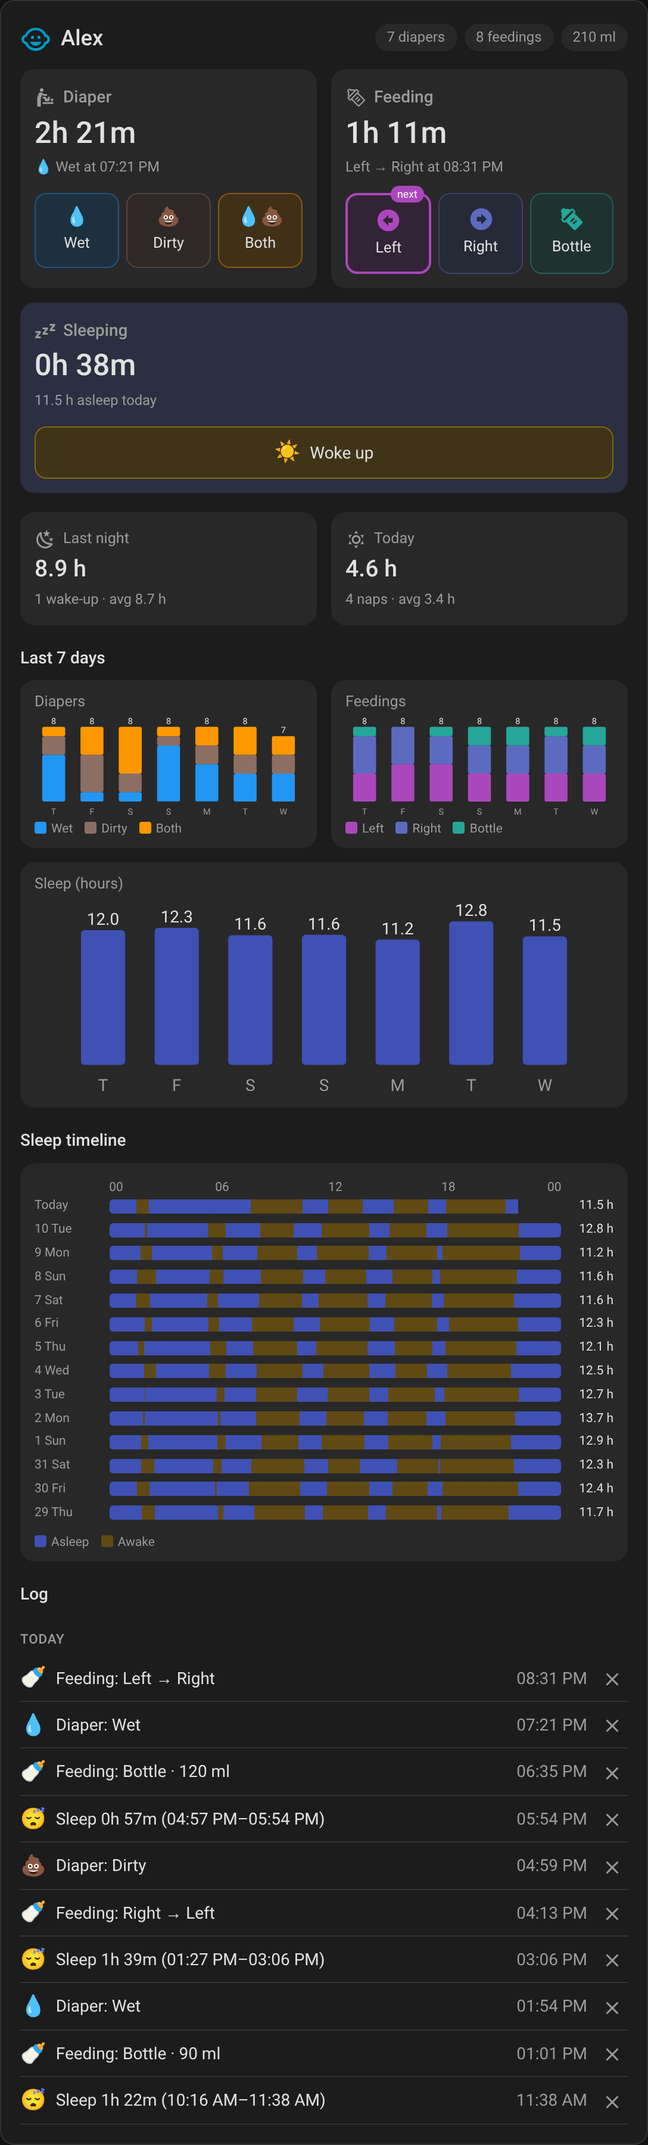
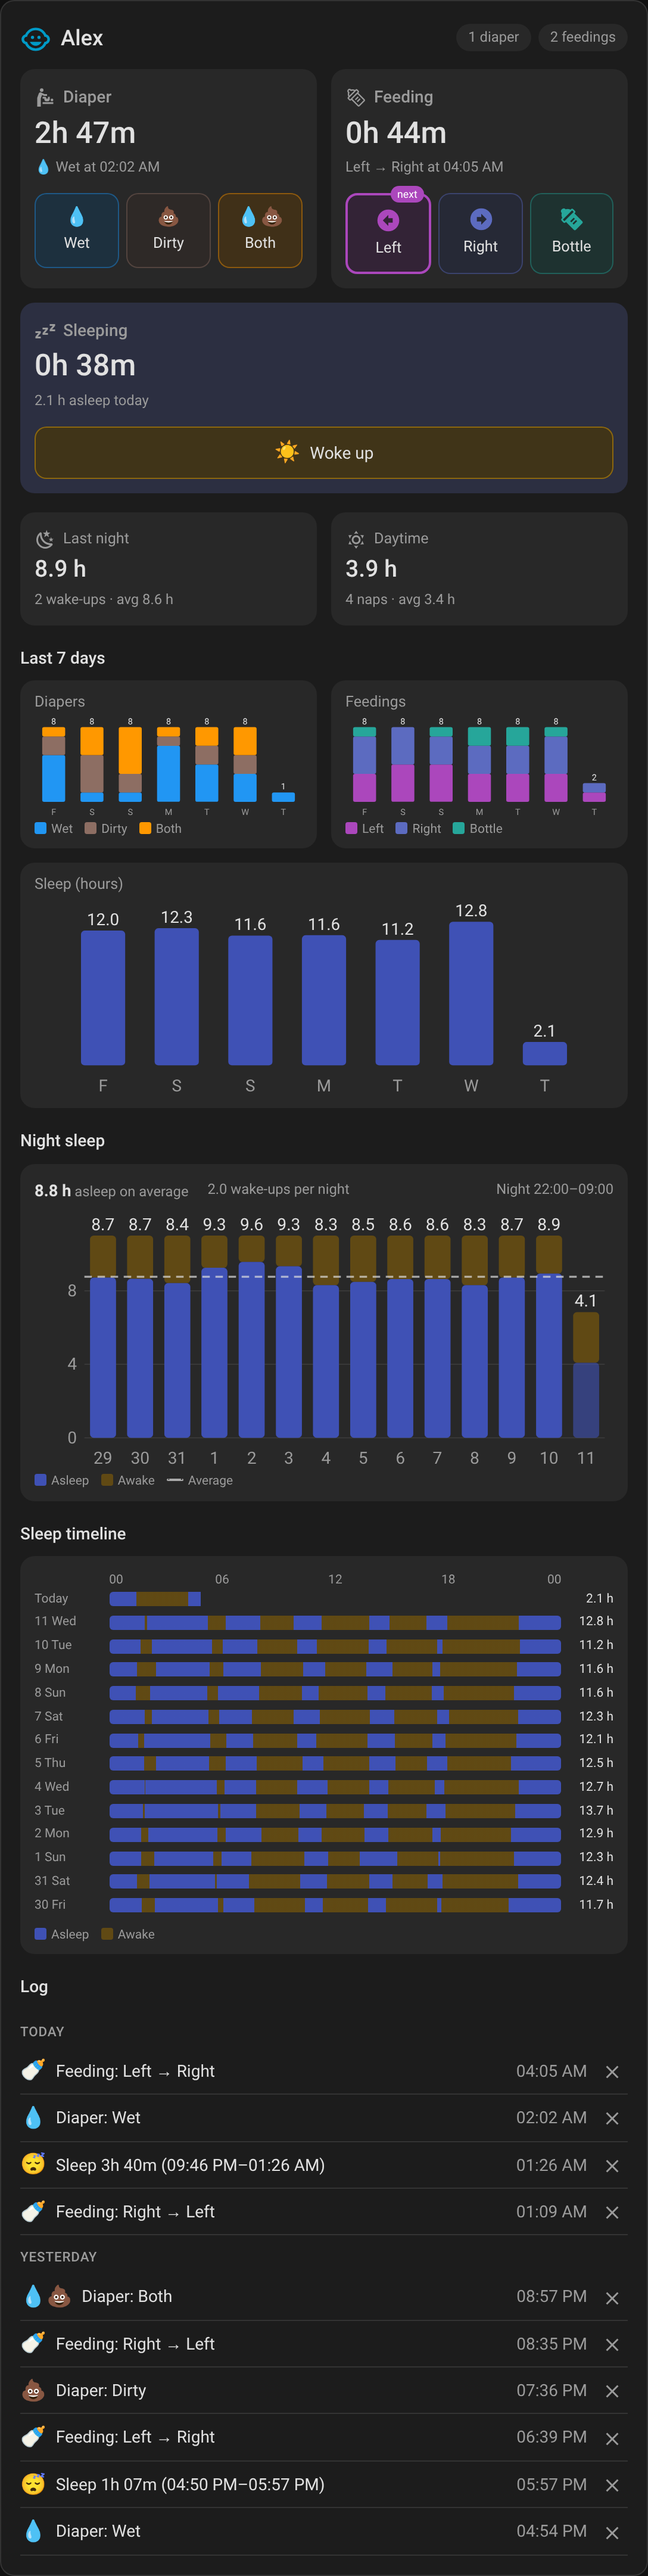
Add a night sleep chart to the card
- One bar per night: hours asleep and awake within the night window, the
  night in progress shown faded, a dashed average line, and a summary with
  the average hours asleep and wake-ups per finished night
- The night window defaults to the integration's Night starts / Night ends
  settings; night_start / night_end on the card override it, night_days
  sets how many nights are shown
- Reuses the sleeps loaded for the timeline (range widened to cover both)
- Options in the visual editor, README, changelog and screenshots updated
- Node unit tests (window resolution, wake-ups, nights not crossing
  midnight, DST) and an e2e check

Claude-Session: https://claude.ai/code/session_01AuxZxADs9gkoJRf59iK2qJ

diff --git a/custom_components/baby_tracker/frontend/baby-tracker-card.js b/custom_components/baby_tracker/frontend/baby-tracker-card.js
@@ -13,6 +13,10 @@
  *   timeline_days: 14         days shown in the sleep timeline
  *   timeline_group: 1         days per line (1 = every day, 7 = weekly average, ...)
  *   timeline_start_hour: 0    hour of day each line starts at (e.g. 18 to keep nights together)
+ *   show_nights: true
+ *   night_days: 14            nights in the night sleep chart
+ *   night_start: "21:00"      optional; defaults to the integration's "Night starts" setting
+ *   night_end: "07:00"        optional; defaults to the integration's "Night ends" setting
  */
 
 const CARD_VERSION = "1.0.0";
@@ -49,7 +53,12 @@ const DEFAULTS = {
   timeline_days: 14,
   timeline_group: 1,
   timeline_start_hour: 0,
+  show_nights: true,
+  night_days: 14,
+  night_start: "",
+  night_end: "",
 };
+const NIGHTS_MAX = 366;
 const TIMELINE_MAX_DAYS = 3 * 366;
 const TIMELINE_BINS = 144; // 10 minute resolution for averaged lines
 
@@ -283,6 +292,138 @@ function timelineHtml(rows, settings, now) {
     <div class="legend">${legendItems.map(([l, c]) => `<span><i style="background:${c}"></i>${l}</span>`).join("")}${note}</div>`;
 }
 
+/** Minutes after midnight for "HH:MM" or "HH:MM:SS", or null. */
+export function parseClock(value) {
+  const m = /^(\d{1,2}):(\d{2})/.exec(String(value ?? "").trim());
+  if (!m) return null;
+  const h = Number(m[1]);
+  const min = Number(m[2]);
+  return h < 24 && min < 60 ? h * 60 + min : null;
+}
+
+const formatClock = (minutes) => `${String(Math.floor(minutes / 60)).padStart(2, "0")}:${String(minutes % 60).padStart(2, "0")}`;
+
+/**
+ * Night window settings: the card's own night_start/night_end if both are valid
+ * and different, otherwise the integration's night settings.
+ */
+export function nightSettings(cfg, integration = {}) {
+  let start = parseClock(cfg.night_start);
+  let end = parseClock(cfg.night_end);
+  const custom = start !== null && end !== null && start !== end;
+  if (!custom) {
+    start = parseClock(integration.night_start) ?? 22 * 60;
+    end = parseClock(integration.night_end) ?? 9 * 60;
+  }
+  return { nights: clampInt(cfg.night_days, 1, NIGHTS_MAX, 14), start, end, custom };
+}
+
+function atMinutes(date, minutes) {
+  const d = new Date(date);
+  d.setHours(Math.floor(minutes / 60), minutes % 60, 0, 0);
+  return d;
+}
+
+/** Start of the most recent night that has begun. */
+function lastNightStart(settings, now) {
+  const start = atMinutes(now, settings.start);
+  if (start > now) start.setDate(start.getDate() - 1);
+  return start;
+}
+
+/** Oldest time the night chart needs sleeps from. */
+export function nightsRangeStart(settings, now) {
+  const start = lastNightStart(settings, now);
+  start.setDate(start.getDate() - (settings.nights - 1));
+  return start;
+}
+
+/**
+ * Sleep inside the night window for the last `settings.nights` nights, oldest first.
+ * `intervals` are sorted, non-overlapping [start, end] Date pairs.
+ */
+export function nightStats(intervals, settings, now = new Date()) {
+  const newest = lastNightStart(settings, now);
+  const nights = [];
+  for (let k = settings.nights - 1; k >= 0; k--) {
+    const start = new Date(newest);
+    start.setDate(start.getDate() - k);
+    const end = atMinutes(start, settings.end);
+    if (settings.end <= settings.start) end.setDate(end.getDate() + 1);
+    const until = end < now ? end : now;
+    const inside = intervals.filter(([s, e]) => e > start && s < until);
+    const asleep = overlapMs(inside, start, until);
+    // A wake-up: a sleep ends during the night and another starts before it's over.
+    let wakes = 0;
+    for (let i = 0; i < inside.length - 1; i++) {
+      if (inside[i][1] > start && inside[i][1] < until && inside[i + 1][0] < until) wakes++;
+    }
+    nights.push({
+      start,
+      end,
+      length: (end - start) / 3600000,
+      asleep: asleep / 3600000,
+      awake: (until - start - asleep) / 3600000,
+      wakes,
+      done: end <= now,
+    });
+  }
+  return nights;
+}
+
+function nightsHtml(nights, settings) {
+  const width = 300;
+  const height = 140;
+  const top = 14;
+  const bottom = 18;
+  const left = 22;
+  const plotW = width - left;
+  const maxH = Math.max(...nights.map((n) => n.length), 1);
+  const scale = (height - top - bottom) / maxH;
+  const slot = plotW / nights.length;
+  const barW = Math.max(2, Math.min(24, slot * 0.7));
+  const every = Math.ceil(nights.length / 14);
+  const y = (h) => height - bottom - h * scale;
+  let svg = "";
+  // Hour gridlines.
+  const step = maxH > 8 ? 4 : 2;
+  for (let h = 0; h <= maxH; h += step) {
+    svg += `<line x1="${left}" x2="${width}" y1="${y(h).toFixed(1)}" y2="${y(h).toFixed(1)}" class="grid"/>`;
+    svg += `<text x="${left - 4}" y="${(y(h) + 3).toFixed(1)}" class="yaxis">${h}</text>`;
+  }
+  nights.forEach((n, i) => {
+    const x = left + i * slot + (slot - barW) / 2;
+    const tip = `${n.start.toLocaleDateString([], { weekday: "short", day: "numeric", month: "short" })}: ${n.asleep.toFixed(1)} h asleep, ${n.awake.toFixed(1)} h awake, ${n.wakes} wake-up${n.wakes === 1 ? "" : "s"}${n.done ? "" : " (so far)"}`;
+    svg += `<g><title>${esc(tip)}</title>`;
+    if (n.awake > 0) {
+      svg += `<rect x="${x.toFixed(1)}" y="${y(n.asleep + n.awake).toFixed(1)}" width="${barW.toFixed(1)}" height="${(n.awake * scale).toFixed(1)}" rx="2" fill="var(--bt-awake)"/>`;
+    }
+    if (n.asleep > 0) {
+      svg += `<rect x="${x.toFixed(1)}" y="${y(n.asleep).toFixed(1)}" width="${barW.toFixed(1)}" height="${(n.asleep * scale).toFixed(1)}" rx="2" fill="var(--bt-sleep)"${n.done ? "" : ' opacity="0.6"'}/>`;
+    }
+    svg += `</g>`;
+    if (nights.length <= 14 && n.asleep > 0) {
+      svg += `<text x="${(x + barW / 2).toFixed(1)}" y="${(y(n.asleep + n.awake) - 3).toFixed(1)}" class="value">${n.asleep.toFixed(1)}</text>`;
+    }
+    if (i % every === 0 || i === nights.length - 1) {
+      const label = nights.length <= 7 ? n.start.toLocaleDateString([], { weekday: "short" }) : String(n.start.getDate());
+      svg += `<text x="${(x + barW / 2).toFixed(1)}" y="${height - 4}" class="axis">${esc(label)}</text>`;
+    }
+  });
+  const done = nights.filter((n) => n.done && n.asleep > 0);
+  let summary = `<span>No finished nights with sleep logged yet.</span>`;
+  if (done.length) {
+    const avg = done.reduce((t, n) => t + n.asleep, 0) / done.length;
+    const avgWakes = done.reduce((t, n) => t + n.wakes, 0) / done.length;
+    svg += `<line x1="${left}" x2="${width}" y1="${y(avg).toFixed(1)}" y2="${y(avg).toFixed(1)}" class="avg"/>`;
+    summary = `<span><b>${avg.toFixed(1)} h</b> asleep on average</span><span>${avgWakes.toFixed(1)} wake-ups per night</span>`;
+  }
+  const range = `${formatClock(settings.start)}–${formatClock(settings.end)}`;
+  return `<div class="night-summary">${summary}<span>Night ${range}</span></div>
+    <svg class="nights" viewBox="0 0 ${width} ${height}" preserveAspectRatio="xMidYMid meet" role="img">${svg}</svg>
+    <div class="legend"><span><i style="background:var(--bt-sleep)"></i>Asleep</span><span><i style="background:var(--bt-awake)"></i>Awake</span><span><i class="dash"></i>Average</span></div>`;
+}
+
 function describe(e) {
   if (e.kind === "diaper") {
     const d = DIAPER[e.diaper_type] || DIAPER.wet;
@@ -372,7 +513,7 @@ class BabyTrackerCard extends HTMLElement {
     const changed = this._config && (this._config.entry_id !== config.entry_id || this._config.days !== config.days);
     this._config = { ...DEFAULTS, ...config };
     if (changed) this._resubscribe();
-    else if (this._data && this._config.show_timeline) this._ensureSleeps(this._data);
+    else if (this._data && this._needsSleeps()) this._ensureSleeps(this._data);
     this._render();
   }
 
@@ -422,7 +563,7 @@ class BabyTrackerCard extends HTMLElement {
           if (generation !== this._generation) return;
           this._data = data;
           this._error = null;
-          if (this._config.show_timeline) this._ensureSleeps(data);
+          if (this._needsSleeps()) this._ensureSleeps(data);
           this._render();
         },
         { type: `${DOMAIN}/subscribe`, entry_id: entryId, days: Number(this._config.days) || 7 }
@@ -445,10 +586,18 @@ class BabyTrackerCard extends HTMLElement {
     }
   }
 
-  /** Load the sleeps the timeline needs; only again when the data or range changes. */
+  _needsSleeps() {
+    return Boolean(this._config.show_timeline || this._config.show_nights);
+  }
+
+  /** Load the sleeps the timeline and night chart need; again only when the data or range changes. */
   _ensureSleeps(d) {
-    const settings = timelineSettings(this._config);
-    const rangeStart = timelineRangeStart(settings, new Date());
+    const now = new Date();
+    const starts = [];
+    if (this._config.show_timeline) starts.push(timelineRangeStart(timelineSettings(this._config), now));
+    if (this._config.show_nights) starts.push(nightsRangeStart(nightSettings(this._config, d.settings), now));
+    if (!starts.length) return;
+    const rangeStart = new Date(Math.min(...starts));
     const key = `${d.entry_id}|${d.revision}|${rangeStart.toISOString()}`;
     if (key === this._sleepsKey || key === this._sleepsLoading) return;
     this._sleepsLoading = key;
@@ -704,18 +853,27 @@ class BabyTrackerCard extends HTMLElement {
         </div>`;
     }
 
+    let intervals = null;
+    if (this._sleeps) {
+      intervals = [...this._sleeps];
+      if (d.sleep_start) intervals.push([new Date(d.sleep_start), now]);
+    }
+    const pending = this._sleepsError
+      ? `<div class="message error">${esc(this._sleepsError)}</div>`
+      : `<div class="message">Loading…</div>`;
+
+    if (cfg.show_nights) {
+      const settings = nightSettings(cfg, d.settings);
+      html += `
+        <div class="section">
+          <div class="section-title">Night sleep</div>
+          <div class="chart">${intervals ? nightsHtml(nightStats(intervals, settings, now), settings) : pending}</div>
+        </div>`;
+    }
+
     if (cfg.show_timeline) {
       const settings = timelineSettings(cfg);
-      let content;
-      if (this._sleeps) {
-        const intervals = [...this._sleeps];
-        if (d.sleep_start) intervals.push([new Date(d.sleep_start), now]);
-        content = timelineHtml(timelineRows(intervals, settings, now), settings, now);
-      } else if (this._sleepsError) {
-        content = `<div class="message error">${esc(this._sleepsError)}</div>`;
-      } else {
-        content = `<div class="message">Loading…</div>`;
-      }
+      const content = intervals ? timelineHtml(timelineRows(intervals, settings, now), settings, now) : pending;
       const title =
         settings.group === 1 ? "Sleep timeline" : `Sleep timeline (${settings.group}-day averages)`;
       html += `
@@ -822,6 +980,14 @@ const STYLE = `
   .tl-ticks span:first-child { transform: none; }
   .tl-ticks span:last-child { transform: translateX(-100%); }
   .tl-note { color: var(--secondary-text-color); }
+  .night-summary { display: flex; flex-wrap: wrap; gap: 4px 16px; font-size: 0.85em; color: var(--secondary-text-color); padding: 4px 0; }
+  .night-summary b { color: var(--primary-text-color); font-size: 1.15em; }
+  .night-summary span:last-child { margin-left: auto; }
+  .chart svg.nights { max-height: 220px; }
+  .chart line.grid { stroke: var(--divider-color); stroke-width: 0.5; }
+  .chart line.avg { stroke: var(--primary-text-color); stroke-width: 1; stroke-dasharray: 4 3; opacity: 0.7; }
+  .chart text.yaxis { text-anchor: end; }
+  .legend i.dash { background: none; border-top: 2px dashed var(--primary-text-color); height: 0; width: 14px; opacity: 0.7; vertical-align: 3px; }
   .log { list-style: none; margin: 0; padding: 0; }
   .log li { display: flex; align-items: center; gap: 8px; padding: 4px 0; border-bottom: 1px solid var(--divider-color); }
   .log li.day { border: none; padding-top: 10px; font-size: 0.8em; font-weight: 500; color: var(--secondary-text-color); text-transform: uppercase; letter-spacing: 0.04em; }
@@ -872,7 +1038,8 @@ class BabyTrackerCardEditor extends HTMLElement {
       <style>
         .bt-editor { display: grid; gap: 12px; padding: 8px 0; }
         .bt-editor label { display: flex; align-items: center; gap: 8px; }
-        .bt-editor select, .bt-editor input[type=number] { padding: 6px; font: inherit; }
+        .bt-editor select, .bt-editor input[type=number], .bt-editor input[type=time] { padding: 6px; font: inherit; }
+        .bt-editor small { color: var(--secondary-text-color); margin-top: -8px; }
       </style>
       <div class="bt-editor">
         <label>Baby <select data-key="entry_id">${options}</select></label>
@@ -889,6 +1056,10 @@ class BabyTrackerCardEditor extends HTMLElement {
         <label>Timeline lines start at <select data-key="timeline_start_hour" data-number>
           ${Array.from({ length: 24 }, (_, h) => `<option value="${h}" ${Number(c.timeline_start_hour) === h ? "selected" : ""}>${String(h).padStart(2, "0")}:00</option>`).join("")}
         </select></label>
+        ${check("show_nights", "Show night sleep")}
+        <label>Nights shown <input type="number" min="1" max="${NIGHTS_MAX}" data-key="night_days" value="${esc(c.night_days)}"></label>
+        <label>Night from <input type="time" data-key="night_start" value="${esc(c.night_start)}"> to <input type="time" data-key="night_end" value="${esc(c.night_end)}"></label>
+        <small>Leave the night times empty to use the integration's Night starts / Night ends settings.</small>
         ${check("show_log", "Show log")}
         <label>Log entries <input type="number" min="1" max="100" data-key="log_entries" value="${esc(c.log_entries)}"></label>
         <label>Days of history <input type="number" min="1" max="31" data-key="days" value="${esc(c.days)}"></label>

diff --git a/README.md b/README.md
@@ -28,8 +28,11 @@ Everything is stored locally in Home Assistant.
   slept and was awake. Show as many days as you like, and either every day or an
   average over several days per line (e.g. weekly), which shades each time of day by
   how often the baby is asleep then.
-- **Dashboard card** with quick actions, a summary, 7-day trends, the sleep timeline
-  and an editable log.
+- **Night sleep chart**: hours asleep and awake within the night for each night, with
+  the average and wake-ups per night. The night window is the integration's *Night
+  starts* / *Night ends* setting, or one you set on the card.
+- **Dashboard card** with quick actions, a summary, 7-day trends, night sleep, the
+  sleep timeline and an editable log.
   It is served by the integration, so there is nothing else to install.
 - **Several babies**: add the integration once per baby.
 - Logbook entries and a `baby_tracker_event` event for every action, for use in automations.
@@ -74,6 +77,9 @@ type: custom:baby-tracker-card
 | `entry_id` | first baby | Which baby to show. The visual editor lets you pick by name. |
 | `show_summary` | `true` | Show last night and daytime sleep. |
 | `show_trends` | `true` | Show the diaper, feeding and sleep charts. |
+| `show_nights` | `true` | Show the night sleep chart. |
+| `night_days` | `14` | Nights in the night sleep chart (up to 366). |
+| `night_start` / `night_end` | integration's setting | Night window for the chart, e.g. `"20:00"` and `"06:00"`. Leave out to use the *Night starts* / *Night ends* settings of the baby. |
 | `show_timeline` | `true` | Show the sleep timeline. |
 | `timeline_days` | `14` | Days covered by the sleep timeline (up to 1098). |
 | `timeline_group` | `1` | Days per timeline line: `1` shows every day, a larger number (e.g. `7`) averages that many days per line. |
@@ -83,6 +89,20 @@ type: custom:baby-tracker-card
 | `days` | `7` | Days shown in the charts (1–31). |
 
 Bottle feeds ask for an optional amount. Tap the ✕ next to a log entry to delete it.
+
+A card with the last 30 nights, counting the night as 20:00–06:00:
+
+```yaml
+type: custom:baby-tracker-card
+show_trends: false
+show_timeline: false
+show_log: false
+night_days: 30
+night_start: "20:00"
+night_end: "06:00"
+```
+
+![Night sleep chart](docs/night-sleep.png)
 
 A card showing four weeks of sleep as weekly averages, with lines running from 18:00 to
 18:00 so nights aren't split at midnight:

diff --git a/CHANGELOG.md b/CHANGELOG.md
@@ -14,4 +14,7 @@ First release.
 - Bundled dashboard card with quick actions, summary, 7-day trends and an editable log.
 - Sleep timeline in the card: one line per day showing sleep and awake periods, with a
   configurable number of days, days per line (every day or averages) and start hour.
+- Night sleep chart in the card: hours asleep and awake within the night per night,
+  with averages and wake-ups; the night window follows the integration's setting or
+  can be set per card.
 - Logbook entries and `baby_tracker_event` events.
